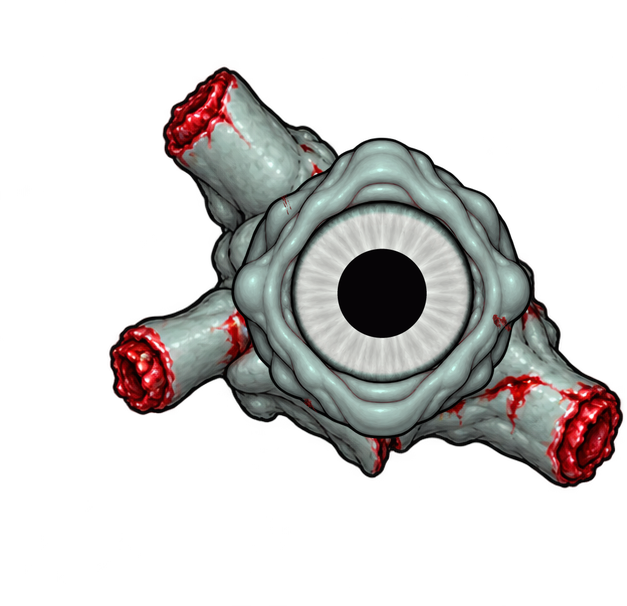
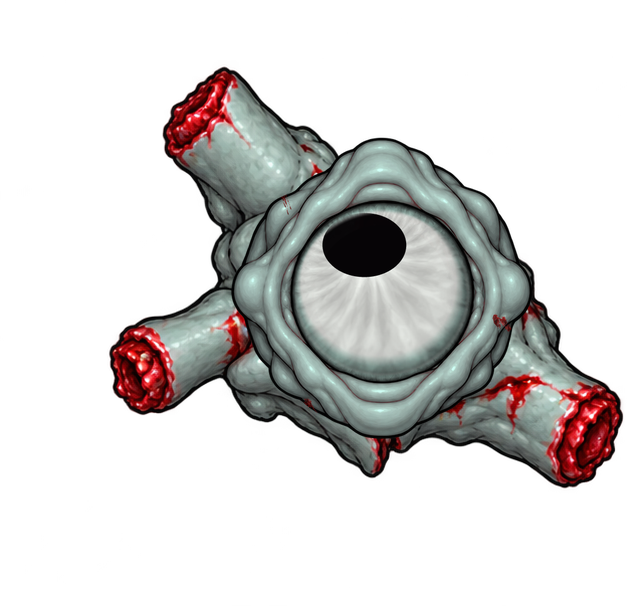
Give Sleeper corpse eyes a fixed rolled gaze

Changed region(s): [[0.4545, 0.3267, 0.7576, 0.6238]]

diff --git a/Tools/Art/apply_sleeper_blood_02.py b/Tools/Art/apply_sleeper_blood_02.py
@@ -6,6 +6,7 @@ No silhouette, atlas geometry, native Sprite or meta is regenerated.
 """
 from pathlib import Path
 from io import BytesIO
+import argparse
 import hashlib
 import json
 import re
@@ -163,16 +164,62 @@ def bake_eyes(decals):
             image = paint(image, decals[number], (centre[0] + dx * 1160, centre[1] + dy * 1160), (width * 1160, height * 1160), angle)
     image.save(ROOT / "LargeEye01/eye-atlas.png")
     assert np.array_equal(np.asarray(before)[:, :, 3], np.asarray(image)[:, :, 3])
-    # This is the actual game eye artwork plus its separate, registered pupil.
+    return dead_eye_organ(image)
+
+
+def pupil_layer(centre, radius):
+    pupil = Image.new("RGBA", (560 * 4, 560 * 4))
+    drawing = ImageDraw.Draw(pupil)
+    drawing.ellipse((round((centre[0] - radius[0]) * 4), round((centre[1] - radius[1]) * 4), round((centre[0] + radius[0]) * 4), round((centre[1] + radius[1]) * 4)), fill=(6, 4, 6, 255))
+    return pupil.resize((560, 560), Image.Resampling.LANCZOS)
+
+
+def dead_eye_organ(image):
+    """Assemble a fixed, slightly rolled eye without changing the live atlas.
+
+    Warp only the exposed fibres, like the runtime gaze shader. The fleshy
+    membrane stays registered; the pupil is foreshortened and clipped by it.
+    """
     organ = image.crop((32, 44, 592, 604))
     backing = Image.new("RGBA", organ.size)
     drawing = ImageDraw.Draw(backing)
     drawing.ellipse((164, 173, 396, 405), fill=(214, 194, 191, 255))
     organ = Image.alpha_composite(backing, organ)
-    pupil = Image.new("RGBA", (560 * 4, 560 * 4))
-    drawing = ImageDraw.Draw(pupil)
-    drawing.ellipse((round((280 - 75.4) * 4), round((289 - 75.4) * 4), round((280 + 75.4) * 4), round((289 + 75.4) * 4)), fill=(6, 4, 6, 255))
-    organ = Image.alpha_composite(organ, pupil.resize((560, 560), Image.Resampling.LANCZOS))
+    # Preserve the previous organ's exact alpha, including nearly opaque
+    # source pixels that the old centered pupil covered.
+    original_alpha = Image.alpha_composite(organ, pupil_layer((280, 289), (75.4, 75.4))).getchannel("A")
+    data = np.asarray(organ).copy()
+    yy, xx = np.indices(data.shape[:2], dtype=np.float32)
+    distance = np.sqrt(((xx - 280) / 154.28) ** 2 + ((yy - 289) / 146.16) ** 2)
+    # Image coordinates: up and left, with a small part behind the upper lid.
+    gaze = (-30, -82)
+    # A disk-preserving map prevents a large rolled gaze from pulling the
+    # lower membrane into the eye. Only the inner ocular surface is sampled.
+    position = (xx - 280) / 154.28 + 1j * (yy - 289) / 146.16
+    offset = gaze[0] / 154.28 + 1j * gaze[1] / 146.16
+    source = (position - offset) / (1 - np.conjugate(offset) * position)
+    source_x = np.clip(280 + source.real * 154.28, 0, organ.width - 1)
+    source_y = np.clip(289 + source.imag * 146.16, 0, organ.height - 1)
+    x0 = source_x.astype(int)
+    y0 = source_y.astype(int)
+    x1 = np.minimum(x0 + 1, organ.width - 1)
+    y1 = np.minimum(y0 + 1, organ.height - 1)
+    fx = (source_x - x0)[:, :, None]
+    fy = (source_y - y0)[:, :, None]
+    rgb = data[:, :, :3].astype(np.float32)
+    shifted = (rgb[y0, x0] * (1 - fx) + rgb[y0, x1] * fx) * (1 - fy)
+    shifted += (rgb[y1, x0] * (1 - fx) + rgb[y1, x1] * fx) * fy
+    transition = np.clip((distance - .91) / .09, 0, 1)
+    aperture = 1 - transition * transition * (3 - 2 * transition)
+    data[:, :, :3] = np.rint(rgb * (1 - aperture[:, :, None]) + shifted * aperture[:, :, None]).clip(0, 255).astype(np.uint8)
+    organ = Image.fromarray(data)
+    centre = (280 + gaze[0], 289 + gaze[1])
+    radius = (75.4 * .94, 75.4 * .72)
+    pupil = pupil_layer(centre, radius)
+    pupil_data = np.asarray(pupil).copy()
+    pupil_data[:, :, 3] = np.rint(pupil_data[:, :, 3] * aperture).astype(np.uint8)
+    organ = Image.alpha_composite(organ, Image.fromarray(pupil_data))
+    organ.putalpha(original_alpha)
     return organ
 
 
@@ -203,11 +250,27 @@ def corpse_parts(organ, decals):
 
 
 def main():
+    parser = argparse.ArgumentParser(description=__doc__)
+    parser.add_argument("--dead-eye-only", action="store_true", help="Reassemble remains from the current live eye; leave live atlases untouched")
+    arguments = parser.parse_args()
     decals = patches()
+    if arguments.dead_eye_only:
+        image = Image.open(ROOT / "LargeEye01/eye-atlas.png").convert("RGBA")
+        parts = corpse_parts(dead_eye_organ(image), decals)
+        print(json.dumps({"corpseParts": len(parts), "liveAtlasesUntouched": True, "fixedGazePixels": [-30, -82]}))
+        return
     changed = bake_existing(decals)
     organ = bake_eyes(decals)
     parts = corpse_parts(organ, decals)
-    (LIBRARY / "bake-report.json").write_text(json.dumps({"sourceRevision": SOURCE_REVISION, "textures": changed, "eyeAlphaUnchanged": True, "corpseParts": parts, "eyeSource": "Actual LargeEye01 EyeOpen crop and original gameplay pupil dimensions; rejected AI eyeballs are not production sources"}, indent=2) + "\n")
+    report = {
+        "sourceRevision": SOURCE_REVISION,
+        "textures": changed,
+        "eyeAlphaUnchanged": True,
+        "corpseParts": parts,
+        "eyeSource": "Actual LargeEye01 EyeOpen artwork; static corpse pupil rolled up-left and foreshortened. Generated eyeballs rejected.",
+        "latestRemainsCorrection": "Docs/Validation/SleeperDeadEye03.json",
+    }
+    (LIBRARY / "bake-report.json").write_text(json.dumps(report, indent=2) + "\n", encoding="utf-8")
     print(json.dumps({"updatedAtlases": len(changed) + 1, "corpseParts": len(parts), "sourceRevision": SOURCE_REVISION}))
 
 

diff --git a/Concepts/Used/Sleeper/BloodMarks02/README.md b/Concepts/Used/Sleeper/BloodMarks02/README.md
@@ -20,7 +20,7 @@
 | heavy-close | Смятый корпус с одним глазом внутри, четыре конечности |
 | scattered | Корпус с разошедшимися секциями, один отдельный глаз, четыре конечности |
 
-Для глаз в туше и на полу использован именно игровой LargeEye01 и тот же круглый зрачок; сгенерированные трёхмерные глазные яблоки из исходной пробы не используются. Отдельный орган около .44 units по ширине и не следит за игроком. В варианте с отдельным глазом у корпуса пустая глазница. Крупная масса падает рядом; конечности получают отдельные импульсы. Выбор варианта случайный, связь с дистанцией/силой смертельного попадания пока не добавлялась.
+Для глаз в туше и на полу использован именно игровой LargeEye01; сгенерированные трёхмерные глазные яблоки из исходной пробы не используются. По уточнению владельца мёртвый глаз слегка закатан вверх и влево: зрачок приплюснут по вертикали, внутренние волокна следуют его положению, веки и светлый белок сохраняются. Взгляд неподвижен; живой глаз не менялся. Отдельный орган около .44 units по ширине. В варианте с отдельным глазом у корпуса пустая глазница. Крупная масса падает рядом; конечности получают отдельные импульсы. Выбор варианта случайный, связь с дистанцией/силой смертельного попадания пока не добавлялась.
 
 Ниже — нативный рендер трёх новых остатков корпуса и отдельного глаза, с общим затемнением останков. Это библиотека частей; реальный разлёт зависит от импульсов.
 
@@ -35,3 +35,5 @@
 [Кровь: исходник](Source/blood-decals.png) · [Промпт крови](Source/blood-prompt.txt) · [Исходные разорванные корпуса](Source/generated-cores.png) · [Промпт корпусов](Source/remains-prompt.txt).
 
 Оба исходника получены встроенным imagegen. Рисунок глаз в сгенерированном листе отклонён владельцем; в производстве заменён сборкой игрового органа. Скрипт `Tools/Art/apply_sleeper_blood_02.py` читает исходные PNG из Git revision e267261, переносит кровь, осветляет глаз, собирает части и проверяет неизменность alpha. Нужны Pillow и numpy. Повторный запуск не накапливает мазки. [Отчёт обработки](bake-report.json), [техническая проверка](../../../../Docs/Validation/SleeperBlood02.json).
+
+Для обновления только останков: `python Tools/Art/apply_sleeper_blood_02.py --dead-eye-only`. Глаз берётся из текущего игрового atlas, его внутренний рисунок смещается внутри неподвижной мембраны; живые листы не перезаписываются. [Проверка мёртвого взгляда](../../../../Docs/Validation/SleeperDeadEye03.json).

diff --git a/Docs/Enemies/SLEEPER.md b/Docs/Enemies/SLEEPER.md
@@ -1,6 +1,6 @@
 # Второй монстр: «Спящий» — рабочее название
 
-Актуальная графика: [BloodMarks02](../../Concepts/Used/Sleeper/BloodMarks02/README.md). Белок осветлён почти до белого с сохранением волокон; веки сохраняют цвет кожи. Добавлены отдельные локальные кровавые следы на всех рабочих листах. Есть три варианта останков: пустой корпус с отдельным глазом, корпус с глазом внутри и разошедшийся корпус с отдельным глазом. В туше и на полу используется тот же игровой глаз, а не сгенерированный шар. Технически внедрено; внешний вид оценивает владелец. [Первая проба](../../Concepts/Unused/Visual/SleeperBloodMarks01/README.md) с широкой бордовой полосой отклонена и остаётся историей.
+Актуальная графика: [BloodMarks02](../../Concepts/Used/Sleeper/BloodMarks02/README.md). Белок осветлён почти до белого с сохранением волокон; веки сохраняют цвет кожи. Добавлены отдельные локальные кровавые следы на всех рабочих листах. Есть три варианта останков: пустой корпус с отдельным глазом, корпус с глазом внутри и разошедшийся корпус с отдельным глазом. В туше и на полу используется тот же игровой глаз, а не сгенерированный шар; его взгляд неподвижен и слегка закатан вверх и вбок, зрачок приплюснут. Технически внедрено; внешний вид оценивает владелец. [Первая проба](../../Concepts/Unused/Visual/SleeperBloodMarks01/README.md) с широкой бордовой полосой отклонена и остаётся историей.
 
 Рабочий концепт от 2026-10-17. Разработка отдельного дизайна остановлена владельцем. Основа текущей временной графики — [копия спрайтов Сталкера с другой палитрой](../../Concepts/Used/Sleeper/StalkerPlaceholder01/README.md): холодный серо-зелёный оттенок и прежние формы/кадры/альфа. В BloodMarks02 поверх этой основы обновлены окраска глаза и кровавые отметины. Голоса сна/пробуждения/боли Спящего сохранены; смерть теперь использует общий [CreatureRupture06](../../Concepts/Used/Audio/CreatureRupture06/README.md). Первоначальная семья звуков лежит в `Assets/EmergencyShift/Audio/Sleeper/Voice01`. Карта кадров сна, пробуждения, ходьбы, атаки, попадания и смерти — `Assets/EmergencyShift/Art/Enemies/Sleeper/StalkerPlaceholder01/animation-map.json`. Реализованы отдельный AI, звук, общий проигрыватель кадров и тестовые экземпляры; подробности ниже. Разделы о «Треноге» и трёхчастной пасти ниже сохраняют историю отложенного дизайна.
 

diff --git a/Docs/VALIDATION.md b/Docs/VALIDATION.md
@@ -1,5 +1,9 @@
 # Проверки и границы
 
+## Спящий: мёртвый взгляд · 2026-10-17
+
+[Отчёт](Validation/SleeperDeadEye03.json). В двух статичных спрайтах останков зрачок закатан вверх-влево и приплюснут; внутренние волокна смещены вместе с ним. Размеры и alpha PNG сохранены точно. Живые atlas, native Sprite/import metadata, сцены и сериализованные игровые данные не менялись. Два PNG импортированы и показаны в изолированной Unity URP preview scene; ошибок в консоли нет. Runtime-код не менялся, Play/EditMode и сборка повторно не запускались для этой локальной правки рисунка.
+
 ## Спящий: светлый глаз, кровь и варианты останков 02 · 2026-10-17
 
 [Отчёт](Validation/SleeperBlood02.json), [позы](../Concepts/Used/Sleeper/BloodMarks02/poses.png), [новые части](../Concepts/Used/Sleeper/BloodMarks02/corpses.png). 73/73 focused Play-проверок: три состава из 5/5/6 частей, один корпус и один глаз (внутри либо отдельно), нет дублирующего старого death-body, части оседают; повторный Kill не добавляет разрыв. Для каждого состава checkpoint сохраняет индексы, положение/масштаб/поворот и восстанавливает их молча. Старые ID/индексы остаются допустимыми. Общий профиль не меняется; Сталкер сохраняет прежние восемь частей.
